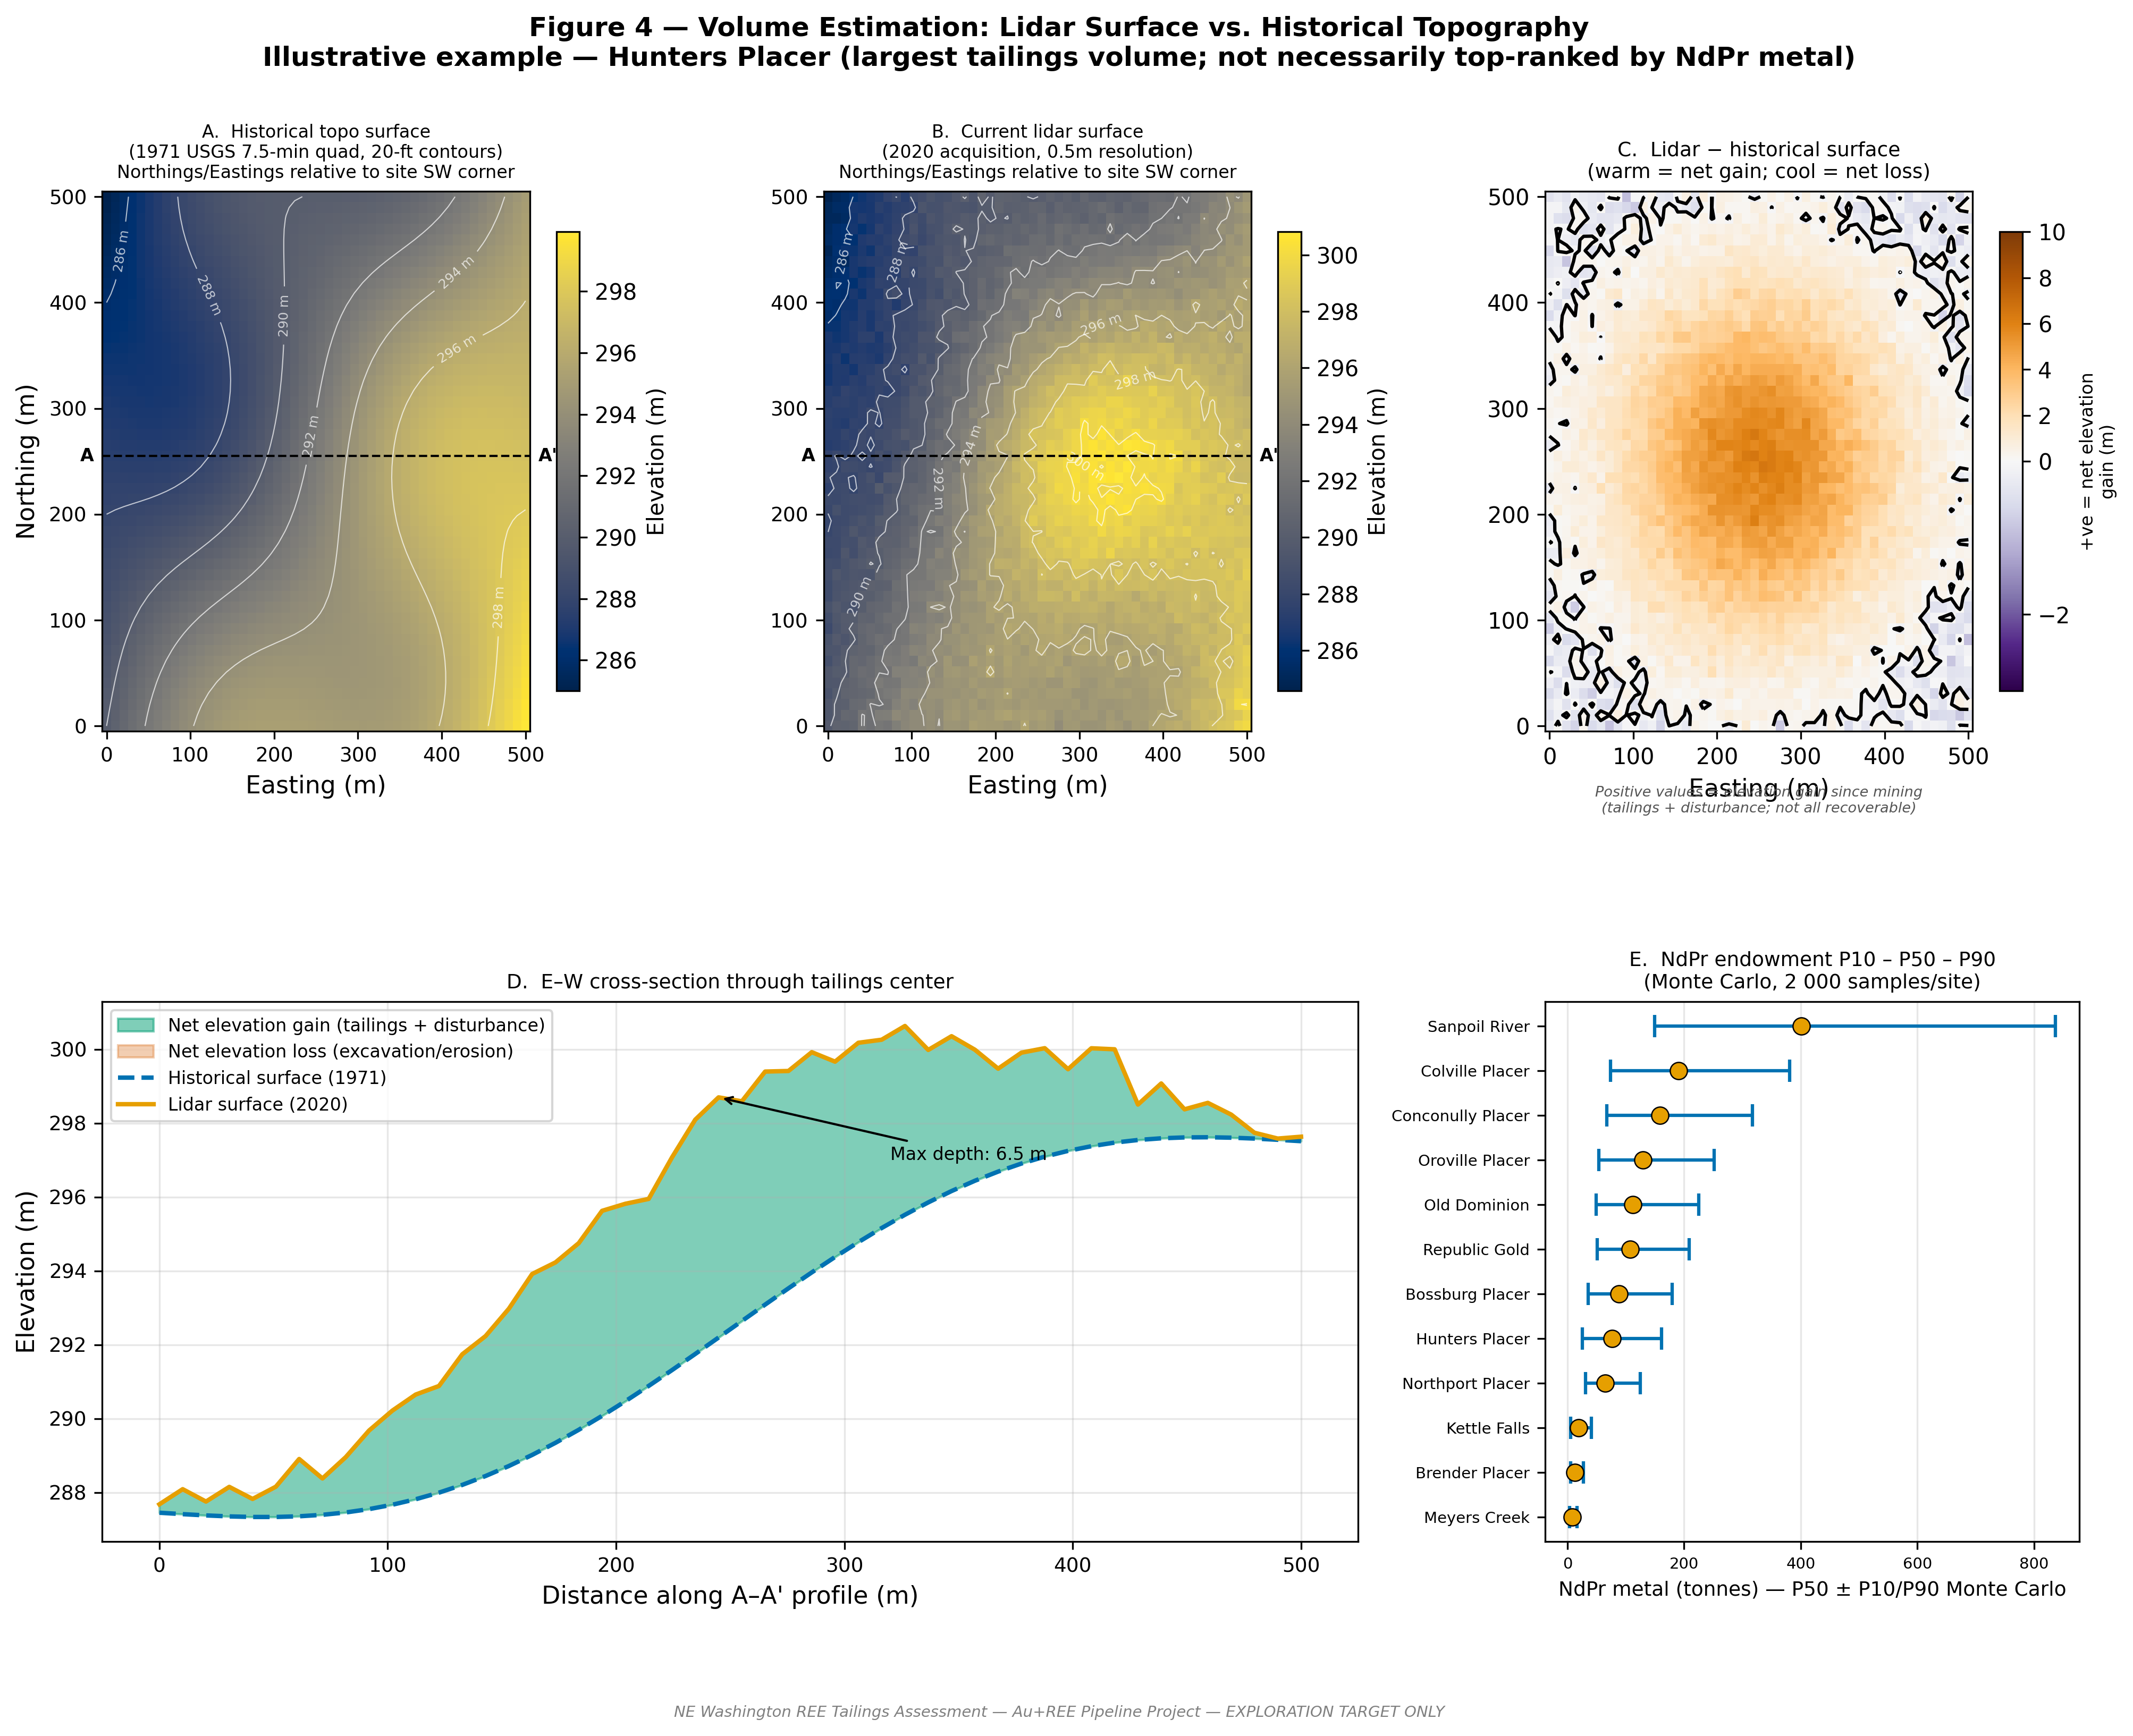
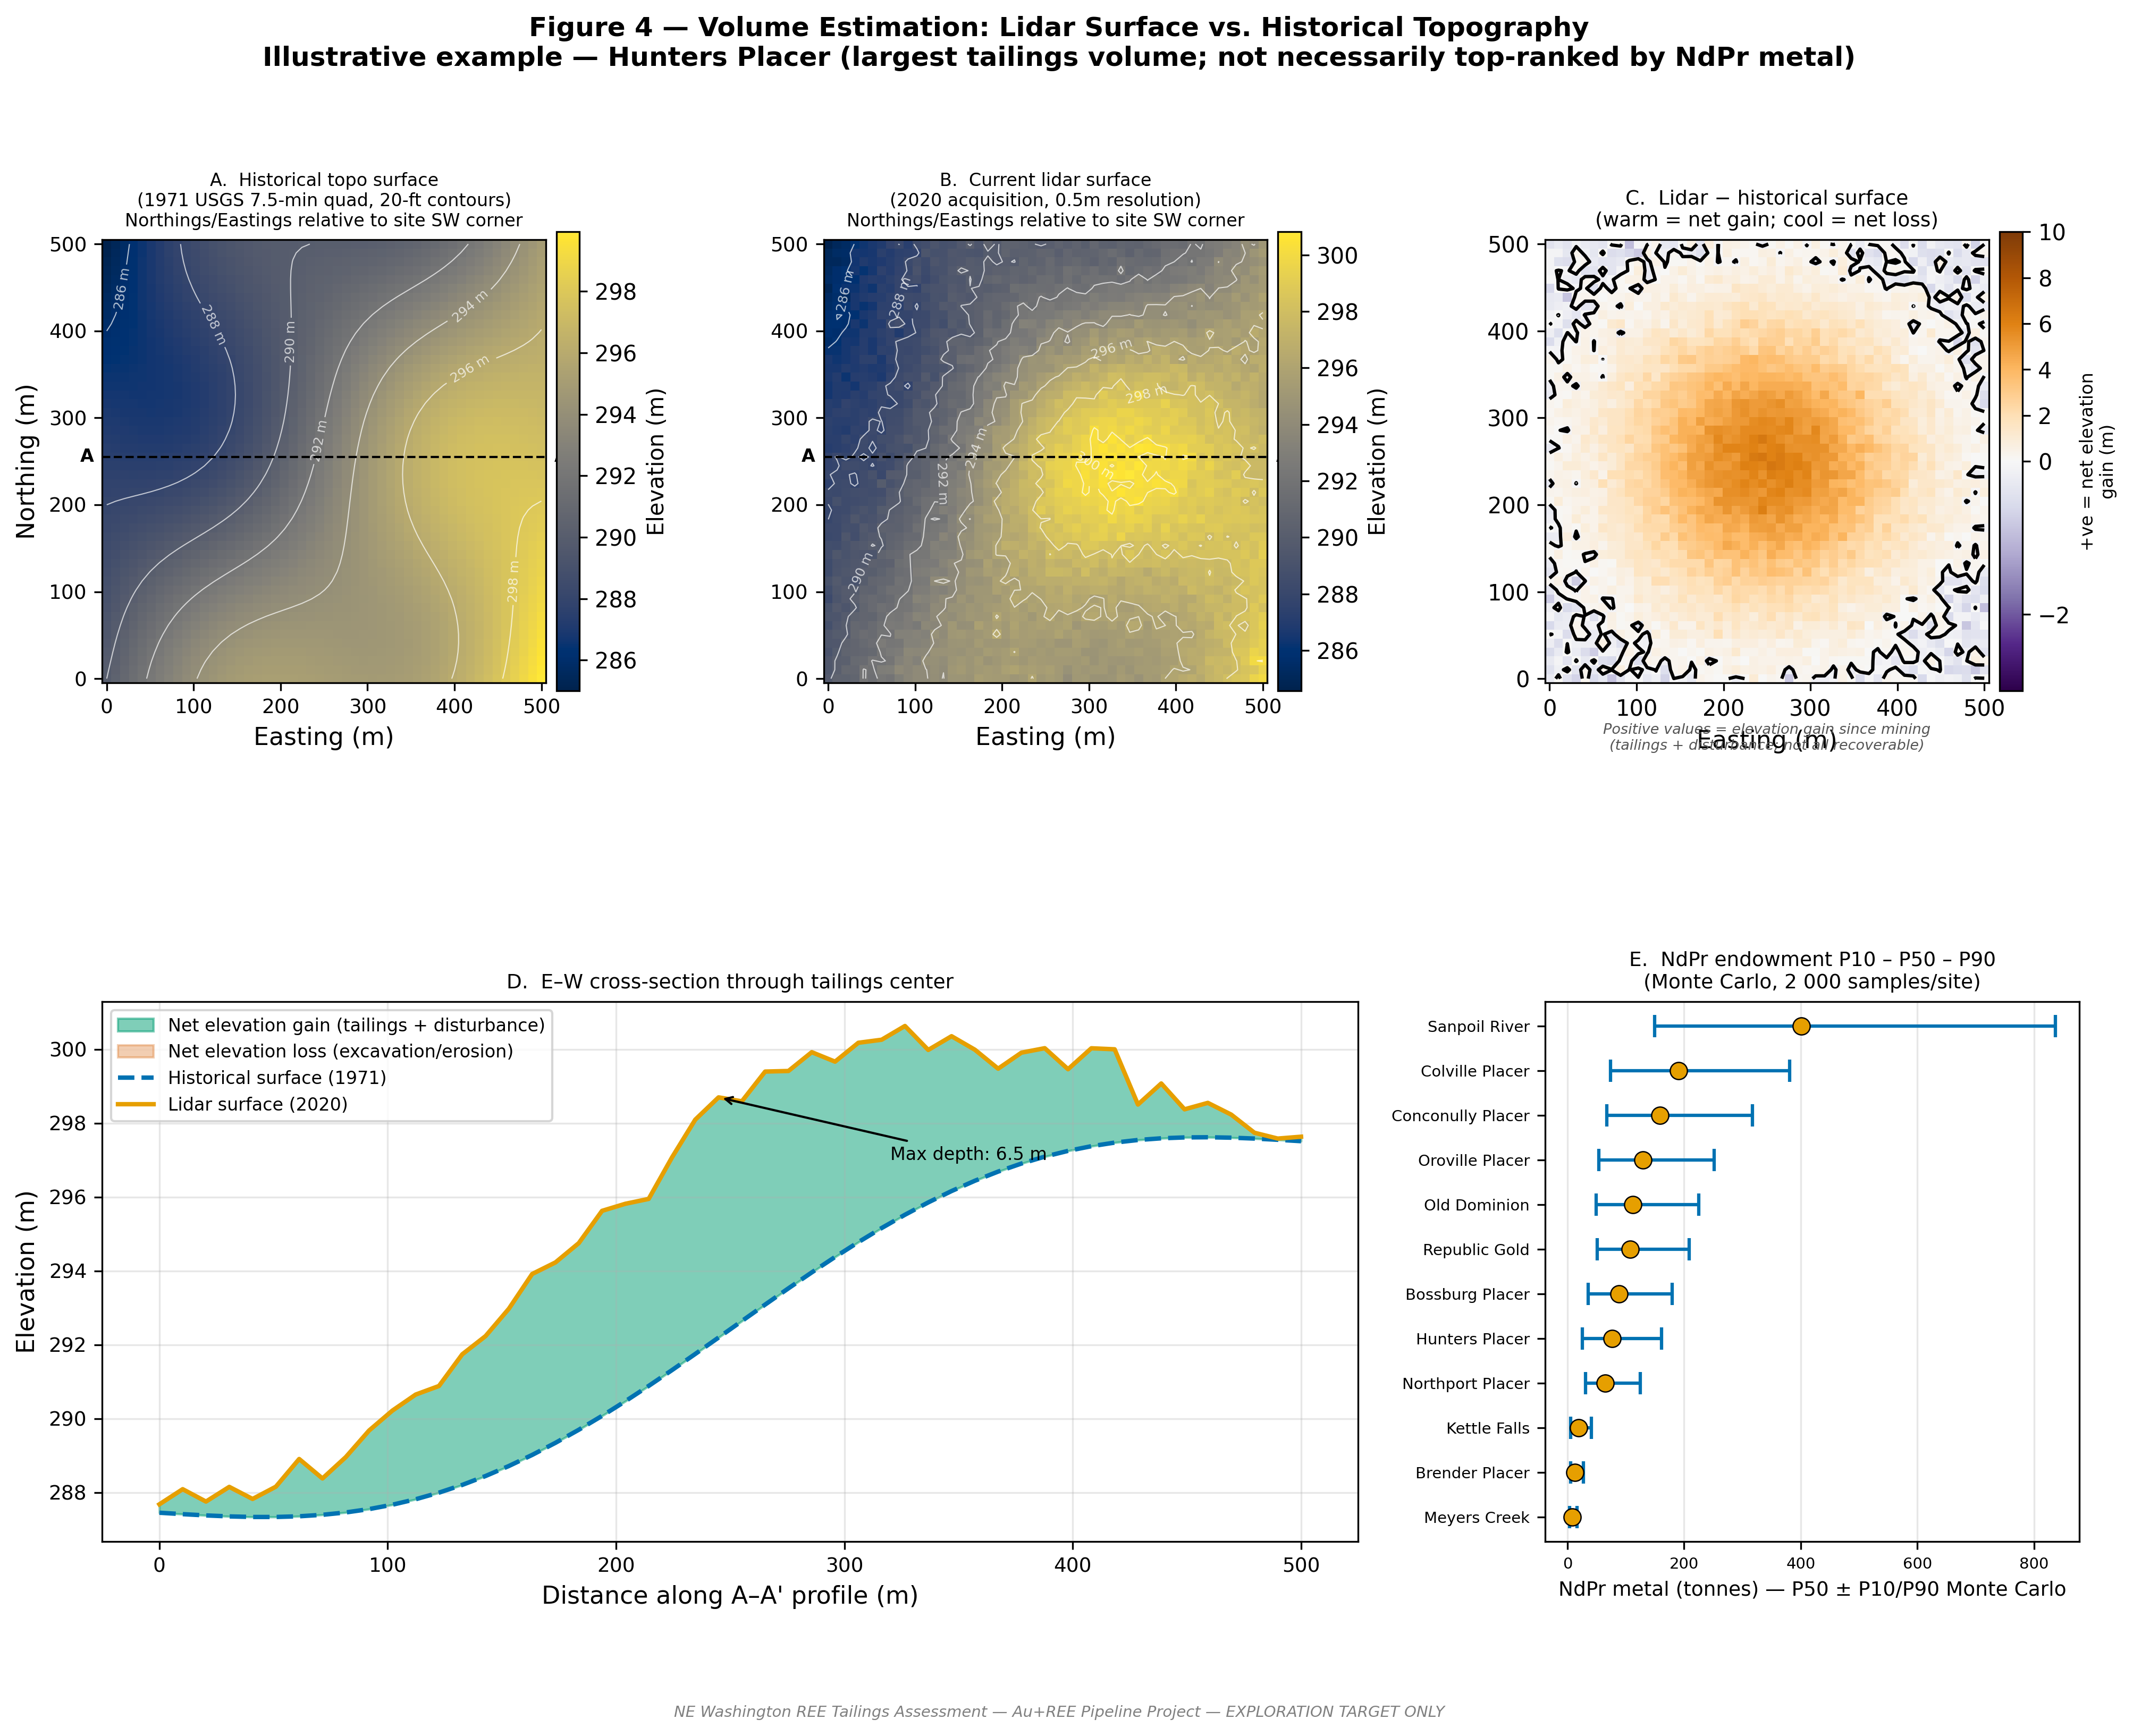
fix: enforce identical map extents and panel sizes across all spatial figures
- task1_coplacer: apply map_extent to Panel B (was using exact bbox); add north
  arrow + scale bar to Panel B so it matches Panel A exactly
- task9_ml_targeting: extend IDW probability grid to map_extent padded bounds
  (was interpolating only the inner exact-bbox; outer margin was empty);
  use nearest+linear blended interpolation so colormap fills full panel;
  remove obsolete inner-bbox white dashed rectangle that appeared inside map
- task4_volume: set_aspect('equal') + consistent colorbar pad on Panels A, B, C
  so the three local elevation panels are identical in physical size

All 18 pytest tests pass.

diff --git a/pipeline/task9_ml_targeting.py b/pipeline/task9_ml_targeting.py
@@ -194,17 +194,29 @@ def run(cfg):
     feat_imp.to_csv(out(cfg, 'tables', 'task9_ml_feature_importance.csv'), index=False)
 
     # ── IDW-interpolated probability surface ──────────────────────────────────
+    # Use map_extent bounds so the colormap fills the same padded area as all other map panels
+    _xmin_g, _xmax_g, _ymin_g, _ymax_g = map_extent(cfg)
     lon_g, lat_g = np.meshgrid(
-        np.linspace(lon_min, lon_max, 200),
-        np.linspace(lat_min, lat_max, 200),
+        np.linspace(_xmin_g, _xmax_g, 220),
+        np.linspace(_ymin_g, _ymax_g, 220),
     )
     prob_grid = griddata(
         points=np.column_stack([df['lon'], df['lat']]),
         values=df['p_anomalous'].values,
         xi=(lon_g, lat_g),
+        method='nearest',   # 'nearest' avoids NaN outside convex hull in padded margins
+    )
+    # Also compute linear interpolation and blend: use linear inside data hull, nearest outside
+    prob_grid_lin = griddata(
+        points=np.column_stack([df['lon'], df['lat']]),
+        values=df['p_anomalous'].values,
+        xi=(lon_g, lat_g),
         method='linear',
     )
-    # Mask cells > 0.5° from nearest sample
+    # Replace valid linear values with the smoother linear estimate
+    valid_lin = ~np.isnan(prob_grid_lin)
+    prob_grid[valid_lin] = prob_grid_lin[valid_lin]
+    # Mask cells > 0.5° from nearest sample (sparse data guard)
     tree = cKDTree(np.column_stack([df['lon'], df['lat']]))
     dist, _ = tree.query(np.column_stack([lon_g.ravel(), lat_g.ravel()]))
     prob_grid[dist.reshape(lon_g.shape) > 0.5] = np.nan
@@ -287,10 +299,6 @@ def run(cfg):
         ax3.legend(fontsize=8, loc='lower left')
     except Exception as _e:
         print(f"  MRDS overlay skipped: {_e}")
-
-    ax3.plot([lon_min, lon_max, lon_max, lon_min, lon_min],
-             [lat_min, lat_min, lat_max, lat_max, lat_min],
-             color='white', lw=1.2, ls='--', zorder=7)
 
     # Annotation: high-P zones without MRDS = unrecorded targets
     ax3.text(0.97, 0.97,

diff --git a/pipeline/task4_volume.py b/pipeline/task4_volume.py
@@ -176,21 +176,23 @@ def run(cfg):
 
     ax1 = fig.add_subplot(gs[0, 0])
     im1 = ax1.pcolormesh(X, Y, pre_mining, cmap='cividis', shading='auto')
-    plt.colorbar(im1, ax=ax1, label='Elevation (m)', shrink=0.85)
+    plt.colorbar(im1, ax=ax1, label='Elevation (m)', shrink=0.85, pad=0.02)
     ax1.set_title(f'A.  Historical topo surface\n({example_site["topo_year"]} USGS 7.5-min quad, '
                   f'{example_site["topo_contour_ft"]}-ft contours)\nNorthings/Eastings relative to site SW corner', fontsize=8)
     ax1.set_xlabel('Easting (m)', fontsize=11); ax1.set_ylabel('Northing (m)', fontsize=11)
     ax1.tick_params(labelsize=9)
+    ax1.set_aspect('equal')
     cs1 = ax1.contour(X, Y, pre_mining, levels=8, colors='white', linewidths=0.5, alpha=0.7)
     ax1.clabel(cs1, inline=True, fontsize=6, fmt='%.0f m', colors='white')
 
     ax2 = fig.add_subplot(gs[0, 1])
     im2 = ax2.pcolormesh(X, Y, current_surface, cmap='cividis', shading='auto')
-    plt.colorbar(im2, ax=ax2, label='Elevation (m)', shrink=0.85)
+    plt.colorbar(im2, ax=ax2, label='Elevation (m)', shrink=0.85, pad=0.02)
     ax2.set_title(f'B.  Current lidar surface\n({example_site["lidar_year"]} acquisition, '
                   f'{example_site["lidar_res_m"]}m resolution)\nNorthings/Eastings relative to site SW corner', fontsize=8)
     ax2.set_xlabel('Easting (m)', fontsize=11)
     ax2.tick_params(labelsize=9)
+    ax2.set_aspect('equal')
     cs2 = ax2.contour(X, Y, current_surface, levels=8, colors='white', linewidths=0.5, alpha=0.7)
     ax2.clabel(cs2, inline=True, fontsize=6, fmt='%.0f m', colors='white')
 
@@ -205,10 +207,11 @@ def run(cfg):
     ax3 = fig.add_subplot(gs[0, 2])
     norm = TwoSlopeNorm(vmin=-3, vcenter=0, vmax=10)
     im3 = ax3.pcolormesh(X, Y, diff, cmap='PuOr_r', shading='auto', norm=norm)
-    cb3 = plt.colorbar(im3, ax=ax3, shrink=0.85)
+    cb3 = plt.colorbar(im3, ax=ax3, shrink=0.85, pad=0.02)
     cb3.set_label('+ve = net elevation\ngain (m)', fontsize=8)
     ax3.set_title('C.  Lidar − historical surface\n(warm = net gain; cool = net loss)', fontsize=9)
     ax3.set_xlabel('Easting (m)', fontsize=11)
+    ax3.set_aspect('equal')
     ax3.contour(X, Y, diff, levels=[0], colors='black', linewidths=1.5)
     ax3.text(0.5, -0.15,
              'Positive values = elevation gain since mining\n'

diff --git a/pipeline/task1_coplacer.py b/pipeline/task1_coplacer.py
@@ -175,7 +175,9 @@ def run(cfg):
                      xytext=(ox, oy), textcoords='offset points', fontsize=7)
 
     ax2.set_facecolor('#e8f4f8')
-    ax2.set_xlim(LON_MIN, LON_MAX); ax2.set_ylim(LAT_MIN, LAT_MAX)
+    ax2.set_xlim(xmin_1, xmax_1); ax2.set_ylim(ymin_1, ymax_1)
+    north_arrow(ax2)
+    scale_bar(ax2, cfg)
     ax2.set_xlabel('Longitude', fontsize=11); ax2.set_ylabel('Latitude', fontsize=11)
     ax2.tick_params(labelsize=9)
     ax2.set_title('B.  Multi-criterion priority score\n'